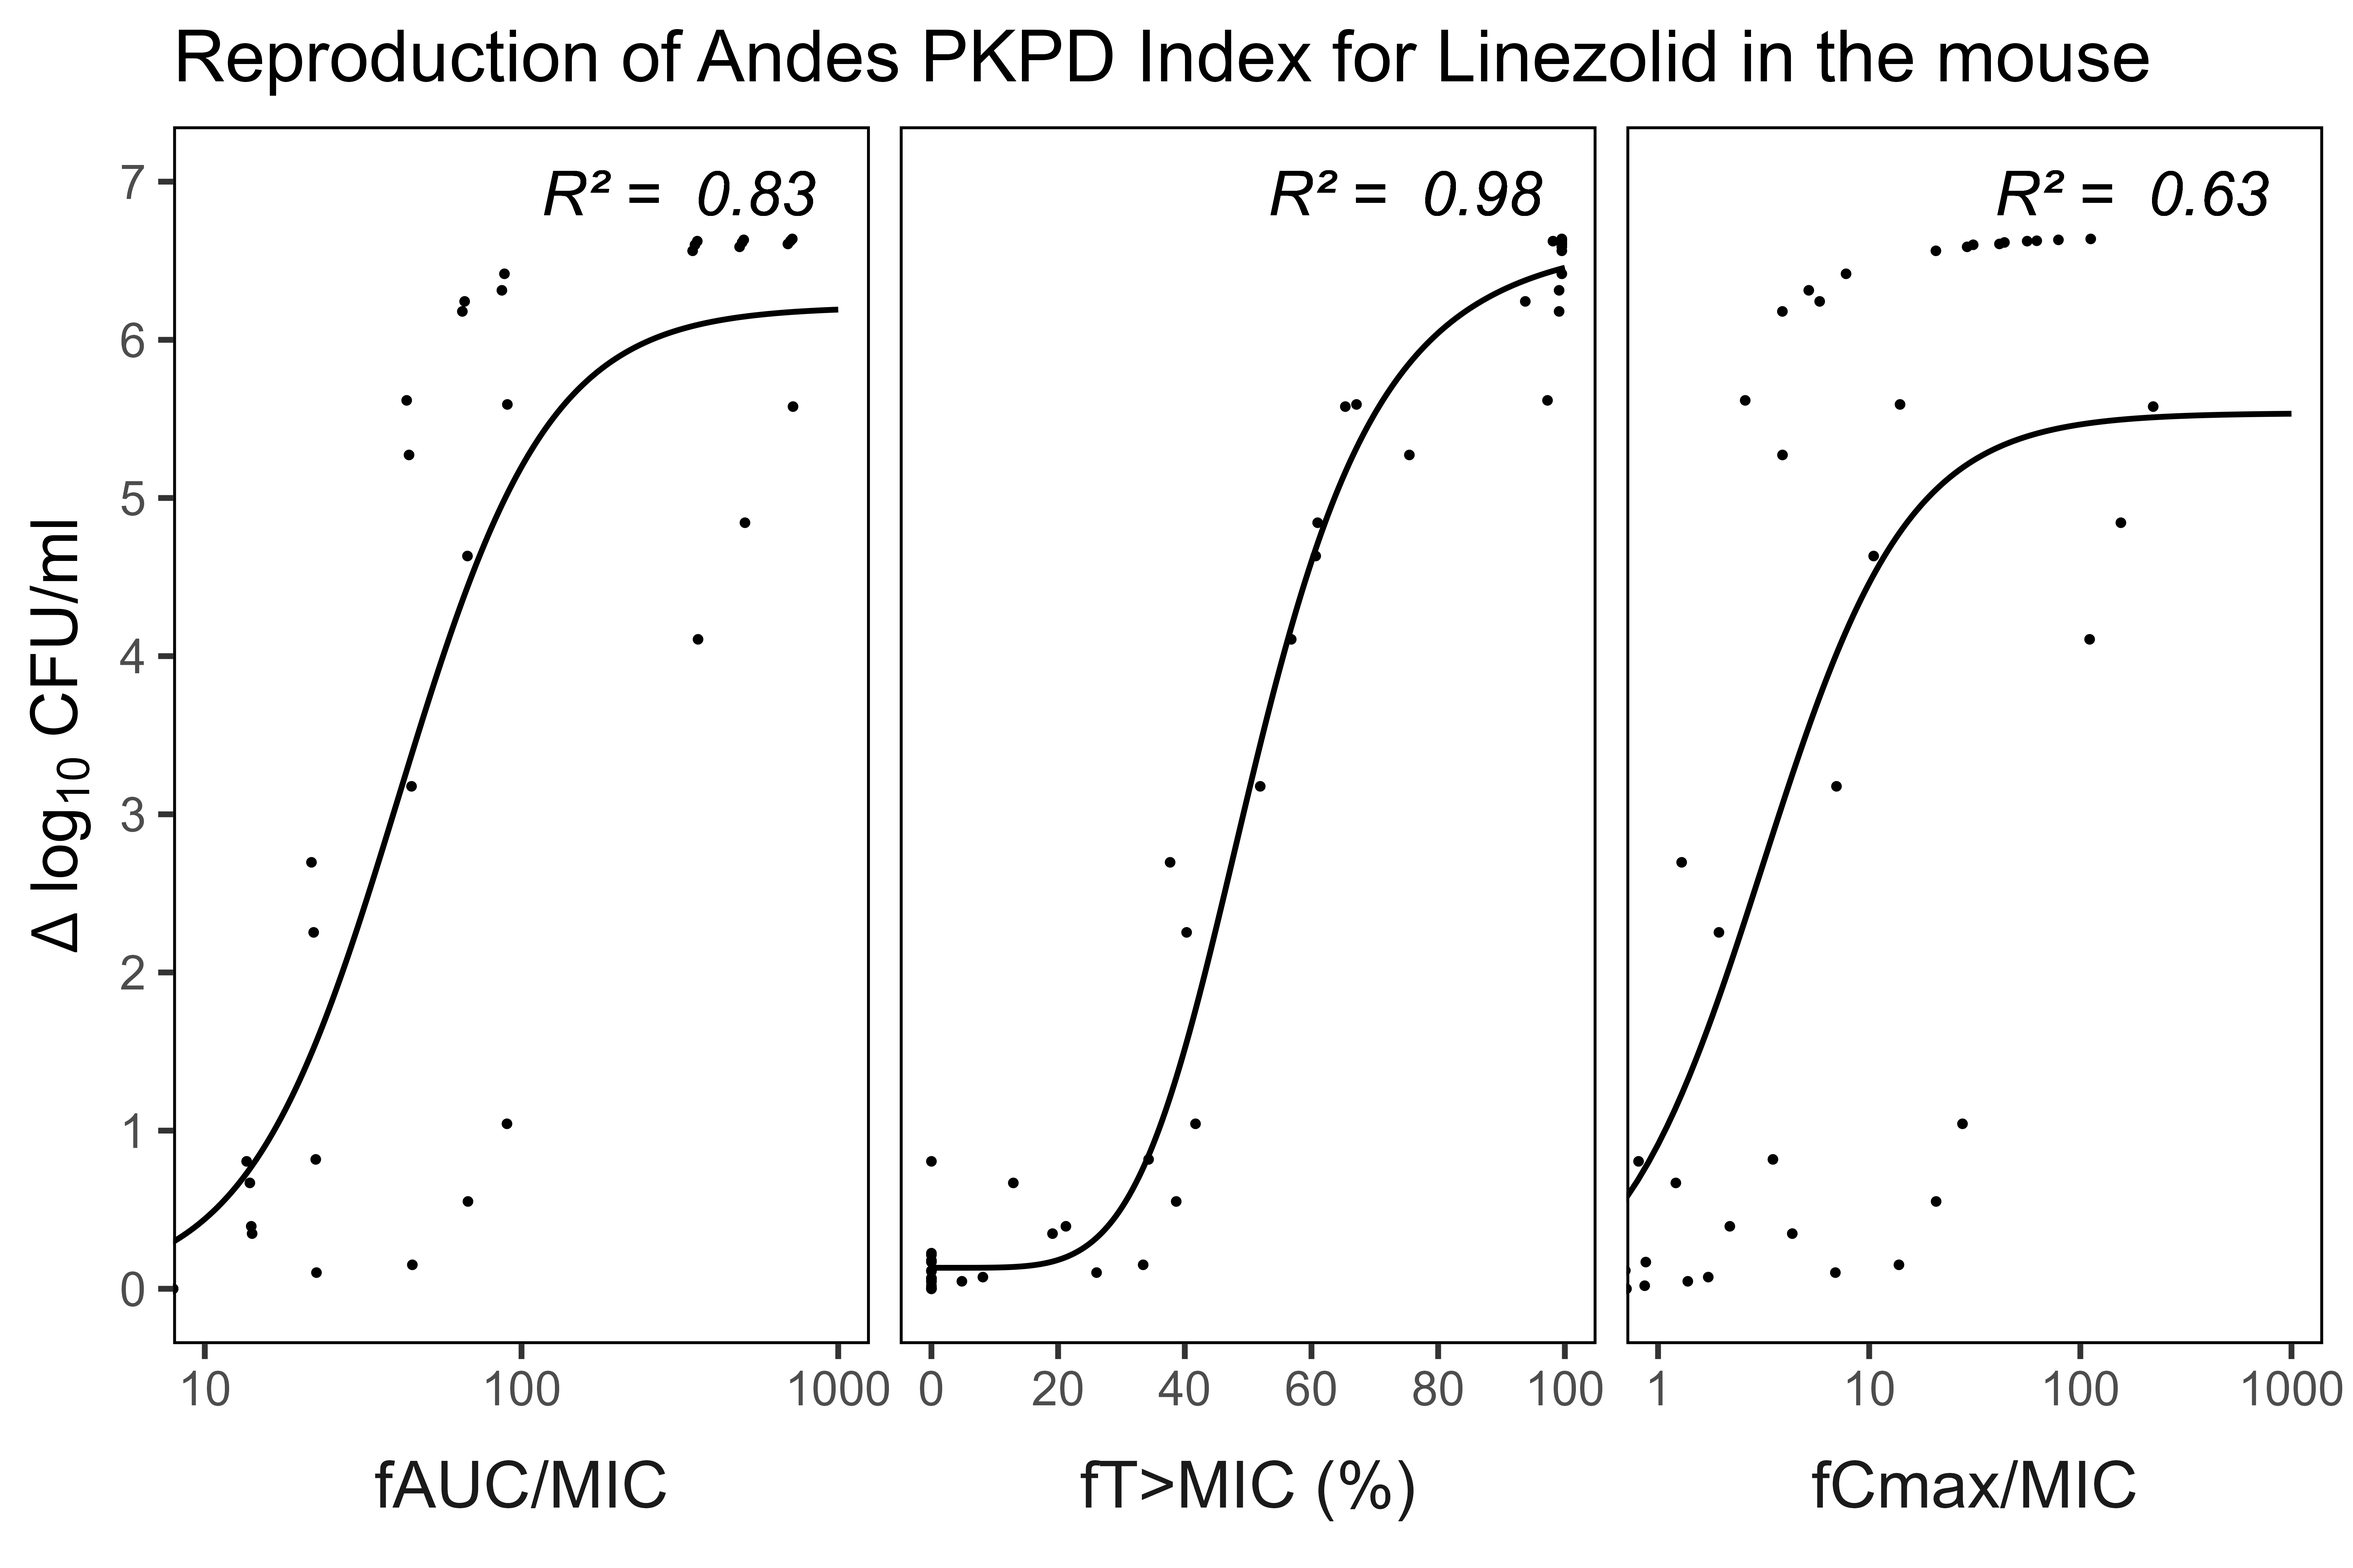
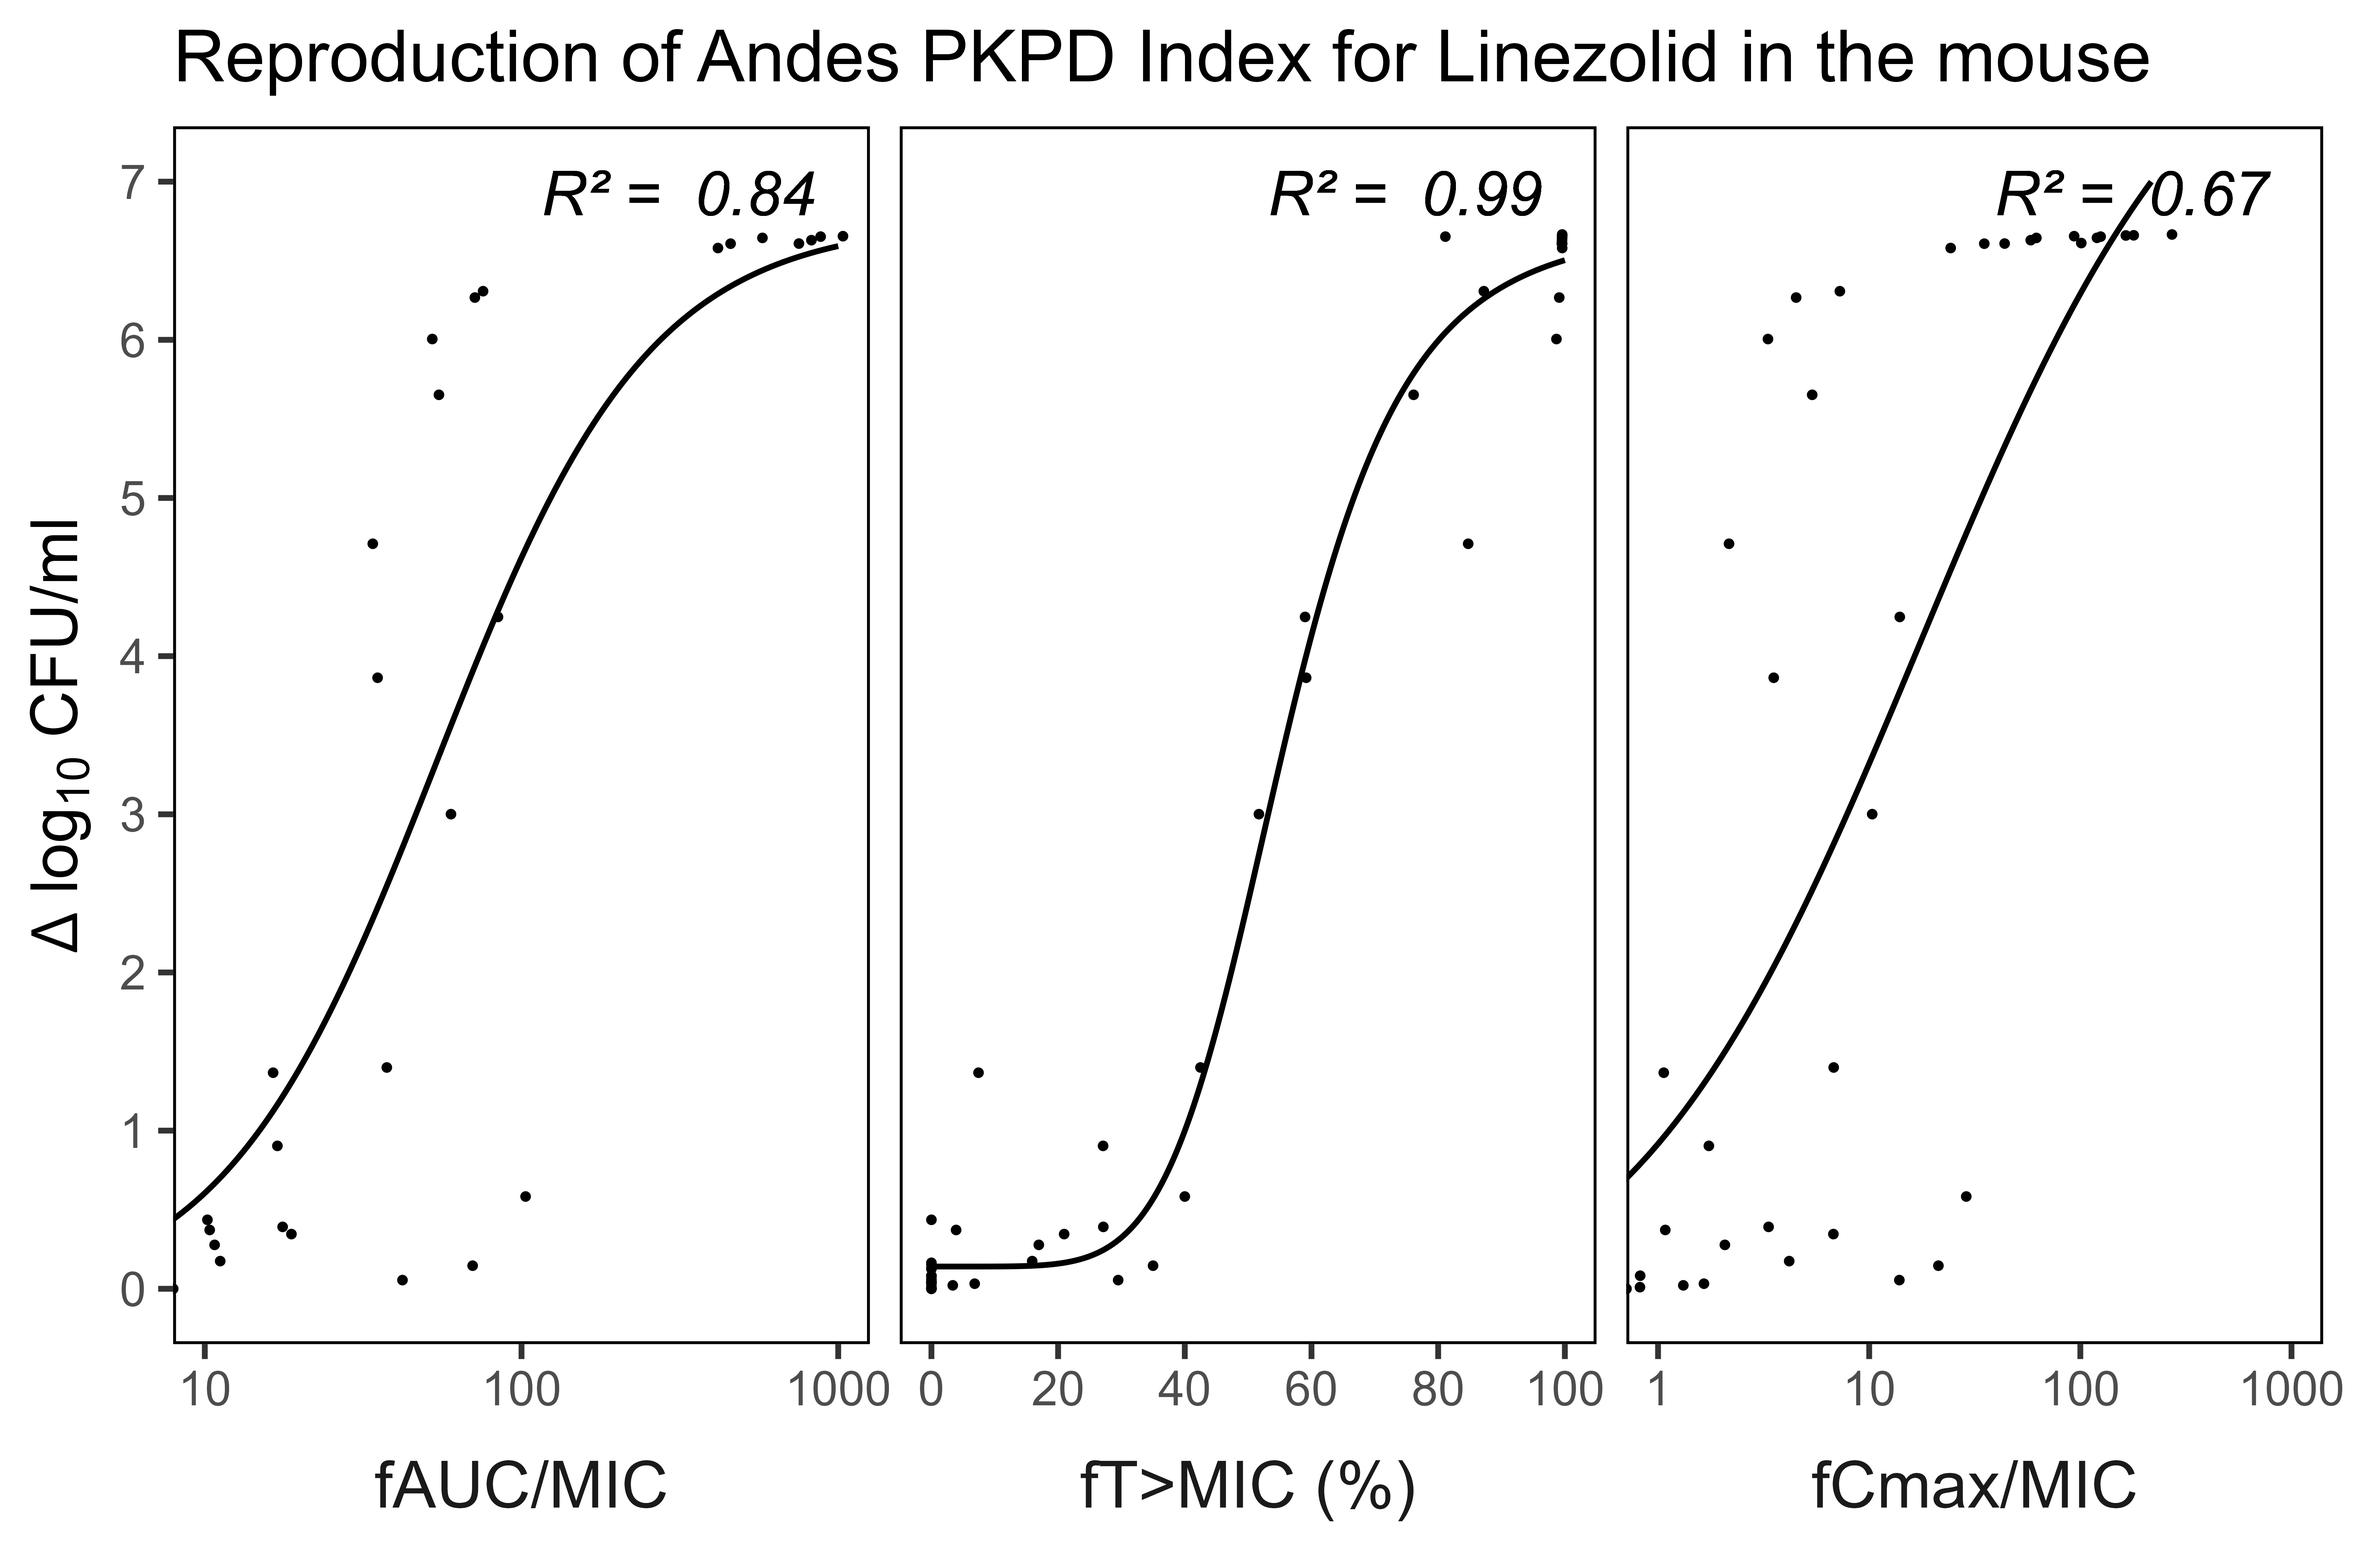
Test avec elim saturable

diff --git a/model/Mouse_model_v2_IV.cpp b/model/Mouse_model_v2_IV.cpp
@@ -9,8 +9,9 @@ $PROB
 /// Parameters definition  ///
 //////////////////////////////
 $PARAM @annotated
-V1    : 1.21   : Plamatic volume (L/kg)
-CL    : 0.89  : Clearance (L/h/kg)
+V1    : 1.2   : Plamatic volume (L/kg)
+Vm    : 65.8    : Maximum elimination rate (L/h/kg)
+Km    : 54.02    : Michaelis constant (mg/L)
 FU    : 0.7 : Fraction unbound in plasma
 
 $PARAM @annotated   // PD parameters
@@ -58,9 +59,7 @@ if(TIME == 0.0) {
 //////////////////////////////
 $ODE    
 // PK Equations
-double k10   = CL/V1; // (h)
-
-dxdt_CENTRAL = -k10*CENTRAL;
+dxdt_CENTRAL = - (Vm*(CENTRAL/V1)/(Km + (CENTRAL/V1)));
 
 // PD Equations
 double B    = S + Rp;
